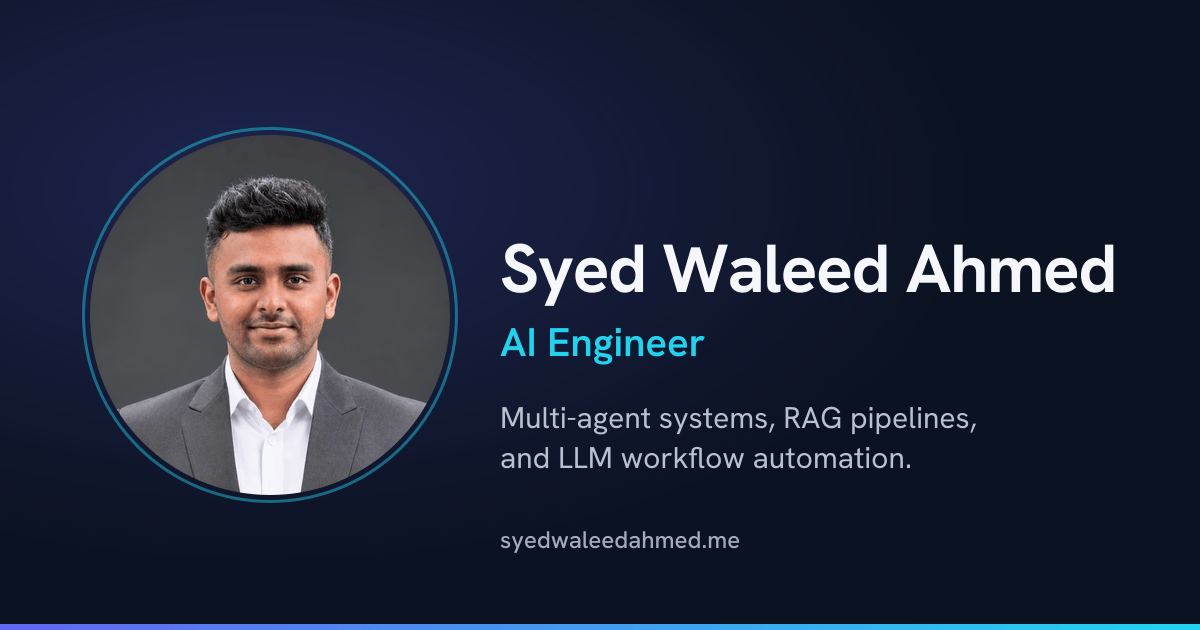
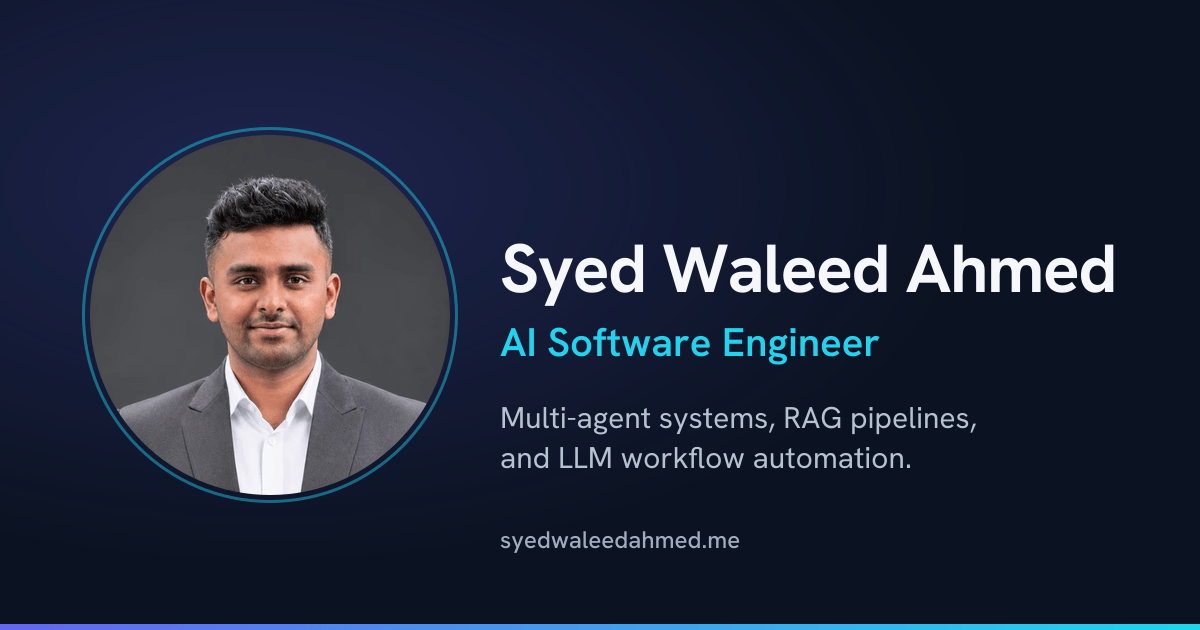
content: use the title AI Software Engineer across the site (#71)
The page title, meta description, Open Graph and Twitter text, the
Person JSON-LD jobTitle, the sitemap image title, the social card
(regenerated), the MemorAIz entry and the first target role said
"AI Engineer". The resume, the LinkedIn headline and the GitHub bio
already say AI Software Engineer, so the site now matches them. The meta
description was tightened to stay near 155 characters, and the three
content dates move to 2026-11-22.

Changed region(s): [[0.4625, 0.5127, 0.74, 0.573]]

diff --git a/frontend/index.html b/frontend/index.html
@@ -18,12 +18,12 @@
     -->
 
     <!-- Primary title (Google snippet) -->
-    <title>Syed Waleed Ahmed · AI Engineer</title>
+    <title>Syed Waleed Ahmed · AI Software Engineer</title>
 
     <!-- Meta description (~155 chars sweet spot) -->
     <meta
       name="description"
-      content="Syed Waleed Ahmed, AI Engineer building multi-agent systems, RAG pipelines, and LLM workflow automation. MSc Automation Engineering, University of Bologna."
+      content="Syed Waleed Ahmed, AI Software Engineer: multi-agent systems, RAG pipelines and LLM workflow automation. MSc Automation Engineering, University of Bologna."
     />
 
     <!-- Author, and what crawlers may show -->
@@ -71,10 +71,10 @@
     <meta property="og:type" content="website" />
     <meta property="og:site_name" content="Syed Waleed Ahmed · Portfolio" />
     <meta property="og:locale" content="en_US" />
-    <meta property="og:title" content="Syed Waleed Ahmed · AI Engineer · Portfolio" />
+    <meta property="og:title" content="Syed Waleed Ahmed · AI Software Engineer · Portfolio" />
     <meta
       property="og:description"
-      content="AI Engineer specializing in multi-agent systems, RAG pipelines, and LLM workflow automation."
+      content="AI Software Engineer specializing in multi-agent systems, RAG pipelines, and LLM workflow automation."
     />
     <meta property="og:url" content="https://syedwaleedahmed.me/" />
     <!-- Purpose-built 1200x630 card. The portrait alone is square, and every
@@ -85,20 +85,20 @@
     <meta property="og:image:height" content="630" />
     <meta
       property="og:image:alt"
-      content="Syed Waleed Ahmed, AI Engineer. Multi-agent systems, RAG pipelines, and LLM workflow automation."
+      content="Syed Waleed Ahmed, AI Software Engineer. Multi-agent systems, RAG pipelines, and LLM workflow automation."
     />
 
     <!-- ====== Twitter / X card ====== -->
     <meta name="twitter:card" content="summary_large_image" />
-    <meta name="twitter:title" content="Syed Waleed Ahmed · AI Engineer · Portfolio" />
+    <meta name="twitter:title" content="Syed Waleed Ahmed · AI Software Engineer · Portfolio" />
     <meta
       name="twitter:description"
-      content="AI Engineer working on multi-agent systems, RAG pipelines, and LLM workflow automation."
+      content="AI Software Engineer working on multi-agent systems, RAG pipelines, and LLM workflow automation."
     />
     <meta name="twitter:image" content="https://syedwaleedahmed.me/images/og-card.png" />
     <meta
       name="twitter:image:alt"
-      content="Syed Waleed Ahmed, AI Engineer. Multi-agent systems, RAG pipelines, and LLM workflow automation."
+      content="Syed Waleed Ahmed, AI Software Engineer. Multi-agent systems, RAG pipelines, and LLM workflow automation."
     />
 
     <!-- ====== Structured data: Person ====== -->
@@ -110,8 +110,8 @@
         "name": "Syed Waleed Ahmed",
         "url": "https://syedwaleedahmed.me/",
         "image": "https://syedwaleedahmed.me/images/Profile.webp",
-        "jobTitle": "AI Engineer",
-        "description": "AI Engineer building production-grade multi-agent systems, RAG pipelines, and LLM workflow automation.",
+        "jobTitle": "AI Software Engineer",
+        "description": "AI Software Engineer building production-grade multi-agent systems, RAG pipelines, and LLM workflow automation.",
         "email": "mailto:syedwaleedahmed9@gmail.com",
         "address": {
           "@type": "PostalAddress",
@@ -183,12 +183,12 @@
         "@type": "ProfilePage",
         "@id": "https://syedwaleedahmed.me/#webpage",
         "url": "https://syedwaleedahmed.me/",
-        "name": "Syed Waleed Ahmed · AI Engineer · Portfolio",
+        "name": "Syed Waleed Ahmed · AI Software Engineer · Portfolio",
         "isPartOf": { "@id": "https://syedwaleedahmed.me/#website" },
         "about": { "@id": "https://syedwaleedahmed.me/#person" },
         "mainEntity": { "@id": "https://syedwaleedahmed.me/#person" },
         "inLanguage": "en",
-        "dateModified": "2026-11-19"
+        "dateModified": "2026-11-22"
       }
     </script>
   </head>

diff --git a/frontend/src/data/experience.js b/frontend/src/data/experience.js
@@ -3,7 +3,7 @@
 
 export const experiences = [
   {
-    title: "AI Engineer · Master's Thesis",
+    title: "AI Software Engineer · Master's Thesis",
     company: "MemorAIz S.r.l.",
     // The internship ran Feb - Jun 2026 and the thesis collaboration through
     // Sep 2026, as the resume and the GitHub profile README put it; the range

diff --git a/frontend/src/data/about.js b/frontend/src/data/about.js
@@ -76,7 +76,7 @@ export const locations = [
 // architecture" and so on) that said nothing the rest of the page does not.
 export const targetRoles = [
   {
-    title: "AI Engineer",
+    title: "AI Software Engineer",
     line: "Agents, tool use, and the infrastructure that makes them dependable.",
   },
   {

diff --git a/README.md b/README.md
@@ -1,6 +1,6 @@
 # Syed Waleed Ahmed - Portfolio
 
-[![Syed Waleed Ahmed, AI Engineer: multi-agent systems, RAG pipelines and LLM workflow automation](frontend/public/images/og-card.png)](https://syedwaleedahmed.me/)
+[![Syed Waleed Ahmed, AI Software Engineer: multi-agent systems, RAG pipelines and LLM workflow automation](frontend/public/images/og-card.png)](https://syedwaleedahmed.me/)
 
 [![CI](https://github.com/syed-waleed-ahmed/Portfolio/actions/workflows/ci.yml/badge.svg)](https://github.com/syed-waleed-ahmed/Portfolio/actions/workflows/ci.yml)
 [![Link check](https://github.com/syed-waleed-ahmed/Portfolio/actions/workflows/links.yml/badge.svg)](https://github.com/syed-waleed-ahmed/Portfolio/actions/workflows/links.yml)
@@ -9,7 +9,7 @@
 [![Node](https://img.shields.io/badge/node-%5E22.19%20%7C%7C%20%5E24.5%20%7C%7C%20%3E%3D26-brightgreen.svg)](.nvmrc)
 [![Live](https://img.shields.io/badge/live-syedwaleedahmed.me-0a7cff.svg)](https://syedwaleedahmed.me/)
 
-The source of my personal site: an AI engineer's portfolio covering experience,
+The source of my personal site: an AI software engineer's portfolio covering experience,
 projects and skills, with a working contact form. It is built with
 **React 19 + Vite** on the frontend and **Node.js + Express** on the backend,
 and the form delivers email through Resend.

diff --git a/CLAUDE.md b/CLAUDE.md
@@ -4,7 +4,7 @@ This file provides guidance to Claude Code (claude.ai/code) when working with co
 
 ## What this is
 
-Personal portfolio of Syed Waleed Ahmed, an AI engineer, live at https://syedwaleedahmed.me/. The repo is public and is meant to be read as a work sample, so docs and comments are part of the product.
+Personal portfolio of Syed Waleed Ahmed, an AI software engineer, live at https://syedwaleedahmed.me/. The repo is public and is meant to be read as a work sample, so docs and comments are part of the product.
 
 Two independent npm projects, with no npm workspace linking them. Each has its own `package.json`, lockfile and `node_modules`; the root `package.json` only holds scripts that delegate, plus the dependency-free `test/invariants.test.js`.
 

diff --git a/CHANGELOG.md b/CHANGELOG.md
@@ -15,6 +15,14 @@ than by individual commit.
 
 ## [Unreleased]
 
+### Changed
+
+- **The title is now AI Software Engineer everywhere.** The page title, the
+  search and link-preview text, the structured data, the social card, the
+  MemorAIz entry and the first target role said "AI Engineer"; they now match
+  the resume, LinkedIn and the GitHub profile. The "open to AI and ML
+  engineering roles" lines are unchanged: they name the roles, not the title.
+
 ## [2.6.1] - 2026-11-20
 
 ### Fixed
